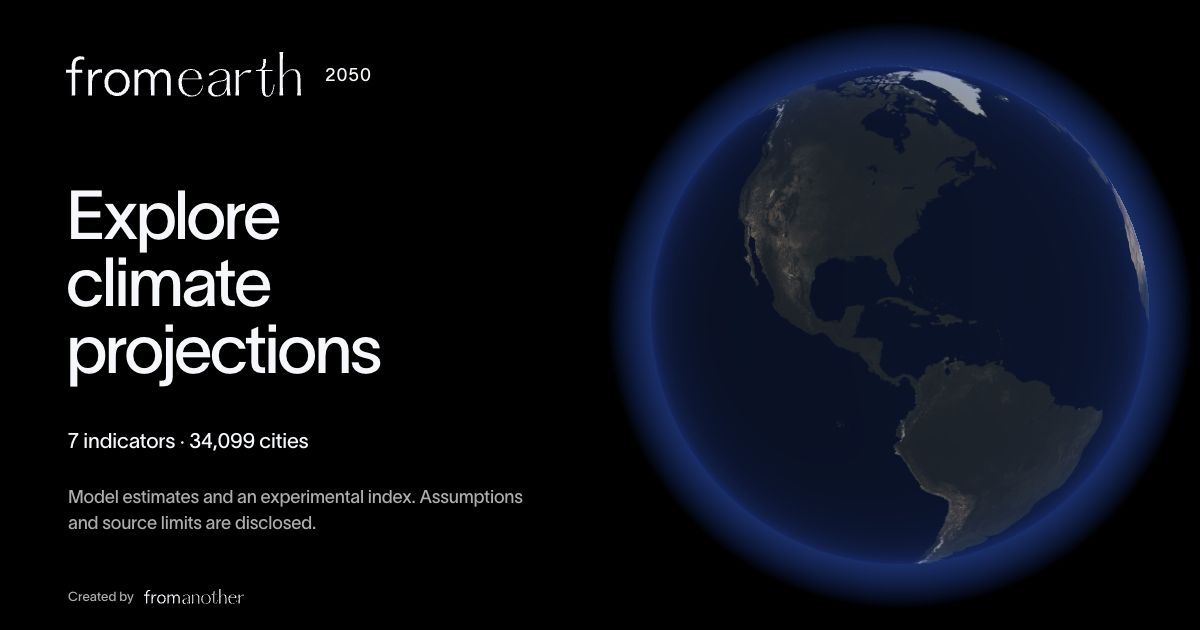
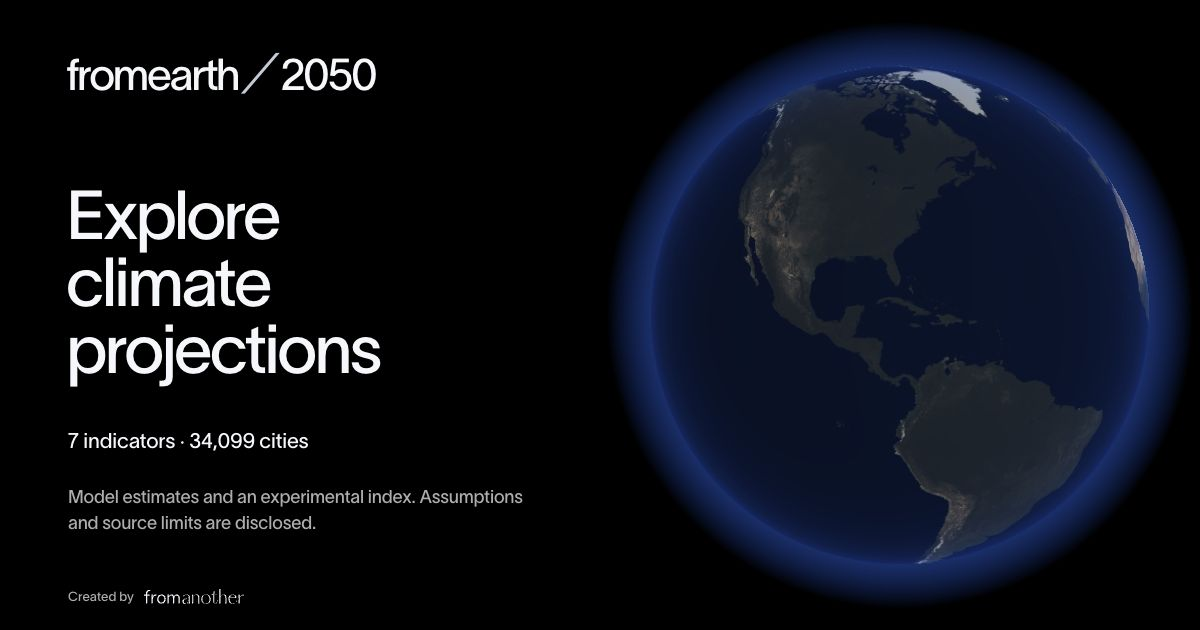
Keep original Terra typography and slash in fromearth identity

Changed region(s): [[0.0617, 0.0905, 0.3392, 0.1508]]

diff --git a/index.html b/index.html
@@ -225,7 +225,7 @@
 
   <div class="v-centre">
     <div class="v-eyebrow"><span data-t="sous1"></span></div>
-     <div id="v-wordmark" aria-hidden="true"><span class="v-masque"><img class="lettre" src="./assets/fromearth.svg" alt=""></span><span class="brand-horizon">2050</span></div>
+     <div id="v-wordmark" aria-hidden="true"><span class="v-masque"><span class="lettre">fromearth<em>／</em>2050</span></span></div>
     <div class="v-eyebrow v-eyebrow-bas"><span data-t="sous2"></span></div>
 
     <div class="v-charge">
@@ -239,7 +239,7 @@
 </div>
 
 <header id="titre" class="panneau">
-  <h1 id="wordmark" aria-label="fromearth · 2050"><img class="brand-logo" src="./assets/fromearth.svg" alt="fromearth"><span class="brand-horizon">2050</span></h1>
+  <h1 id="wordmark" aria-label="fromearth / 2050"><span>fromearth<em>／</em>2050</span></h1>
   <div class="micro" data-t="sousHeader"></div>
 </header>
 
@@ -2901,9 +2901,9 @@ async function genererStory(opts){
   const cjk = ['ja', 'zh', 'zh-Hant'].includes(langue);
   const indice = pays ? indicePays(l[1], an) : (l[7] ? indiceHabitabilite(l, an) : null);
   const indice50 = pays ? indicePays(l[1], 2050) : (l[7] ? indiceHabitabilite(l, 2050) : null);
-  const logo = new Image(), creator = new Image();
-  logo.src = './assets/fromearth.svg'; creator.src = './assets/fromanother.svg';
-  await Promise.all([... [`300 340px ${sans}`,`400 150px ${sans}`,`500 36px ${sans}`,`600 62px ${sans}`].map(f => document.fonts.load(f)), logo.decode(), creator.decode()]);
+  const creator = new Image();
+  creator.src = './assets/fromanother.svg';
+  await Promise.all([... [`300 340px ${sans}`,`400 150px ${sans}`,`500 36px ${sans}`,`600 62px ${sans}`,'400 62px "TWK Lausanne"'].map(f => document.fonts.load(f)), creator.decode()]);
   const cv = document.createElement('canvas'); cv.width = 1080; cv.height = 1920;
   const g = cv.getContext('2d');
   const CREME = '#F5F7FA', MUTER = 'rgba(245,247,250,0.65)';
@@ -2922,9 +2922,8 @@ async function genererStory(opts){
   lueur.addColorStop(0, 'rgba(23,64,169,0.5)'); lueur.addColorStop(1, 'rgba(23,64,169,0)');
   g.fillStyle = lueur; g.fillRect(0, 0, 1080, 1920);
 
-  g.drawImage(logo, 300, 108, 480, 480 * logo.naturalHeight / logo.naturalWidth);
   g.textAlign = 'center';
-  g.fillStyle = MUTER; g.font = `400 28px ${sans}`; g.fillText('2050', 540, 245);
+  g.fillStyle = CREME; g.font = '400 62px "TWK Lausanne"'; g.letterSpacing = '-3px'; g.fillText('fromearth / 2050', 540, 190);
   g.letterSpacing = cjk ? '0px' : '3px'; g.font = `500 28px ${sans}`; g.fillStyle = MUTER;
   g.fillText(T().ui.experimental_climate_index + ' · ' + an, 540, 320, 840);
   g.letterSpacing = '0px';

diff --git a/premium.css b/premium.css
@@ -13,14 +13,12 @@ html:lang(zh-Hant) {--police:'PingFang TC','Microsoft JhengHei','Noto Sans CJK T
 #earth-shell:lang(zh-Hant) h1,#earth-shell:lang(zh-Hant) .signature {font-family:'Songti TC','Noto Serif CJK TC',serif}
 ::selection {background:#c9cbce45;color:#fff}
 #titre h1 {font-weight:400;letter-spacing:-.055em}
-#wordmark .brand-logo{display:block;width:132px;height:auto}
-#wordmark .brand-horizon{display:block;margin-top:5px;font:400 9px/1 var(--police);letter-spacing:.16em;color:var(--glass-muted)}
-#v-wordmark img{display:block;width:clamp(240px,56vw,600px);height:auto}
-#v-wordmark .brand-horizon{display:block;margin-top:18px;font:400 18px/1 var(--police);letter-spacing:.16em;color:var(--muter)}
+#titre #wordmark{font-family:"TWK Lausanne",sans-serif;font-size:26px;white-space:nowrap}
+#v-wordmark{font-family:"TWK Lausanne",sans-serif;font-size:clamp(28px,7vw,110px)}
 .creator-credit{display:flex;align-items:center;gap:8px;margin-top:12px;padding-top:10px;border-top:1px solid var(--glass-edge);font:400 11px/1.4 var(--police);color:var(--glass-muted);white-space:nowrap}
 .creator-credit a{display:flex;align-items:center;min-height:44px}
 .creator-credit img{display:block;width:94px;height:auto}
-@media(max-width:720px){#wordmark .brand-logo{width:100px}}
+@media(max-width:720px){#titre #wordmark{font-size:clamp(14px,4.1vw,22px)}}
 #titre h1 em {color:var(--bleu)}
 :is(#map-inspector,#dossier,#city-comparison,.pedago-carte,.language-content) {border-radius:28px}
 :is(#map-inspector,#dossier,#city-comparison,#menu-reglages,#resultats,.pedago-carte,.language-content,#calque-bulle,#survol,#accroche) {backdrop-filter:blur(8px) saturate(1.5);-webkit-backdrop-filter:blur(8px) saturate(1.5)}
